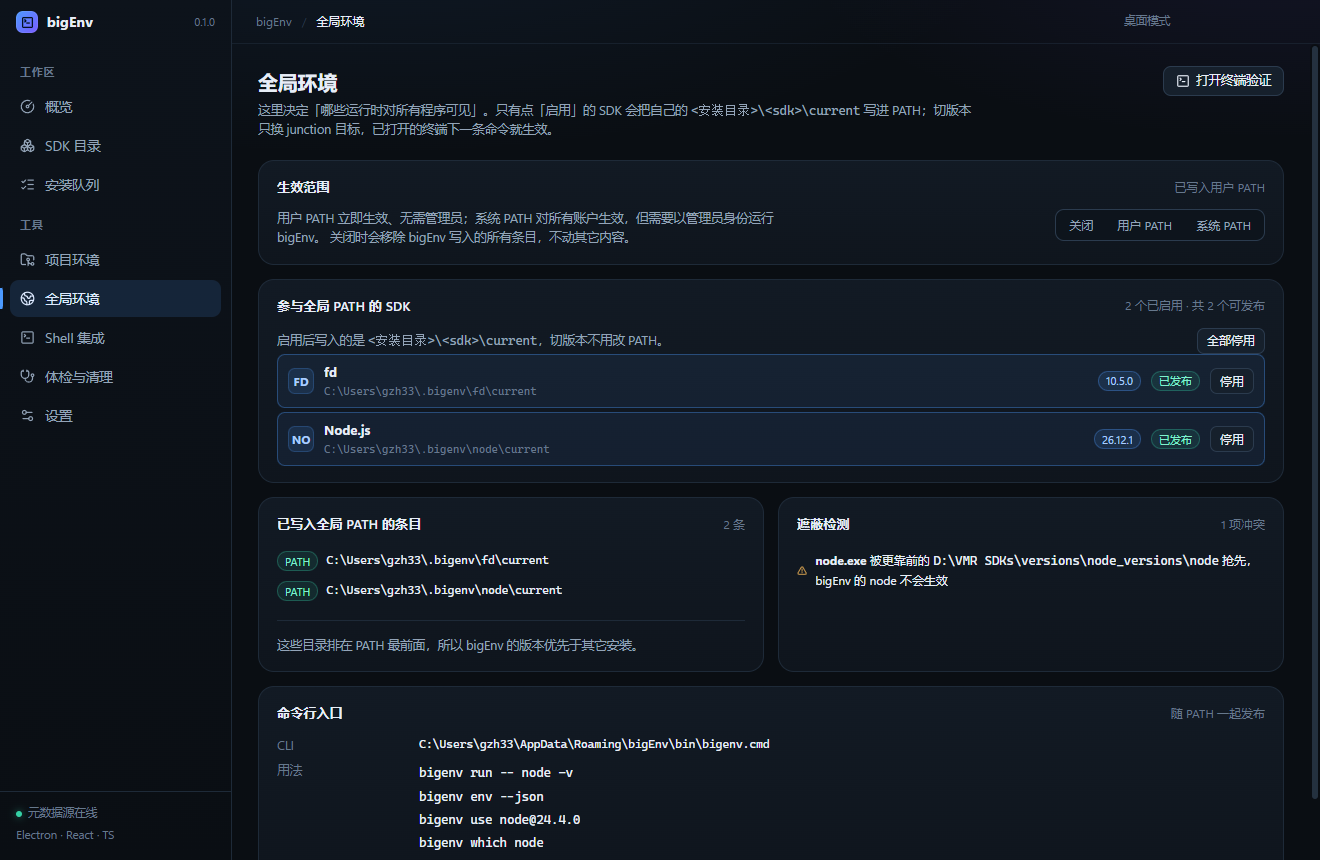
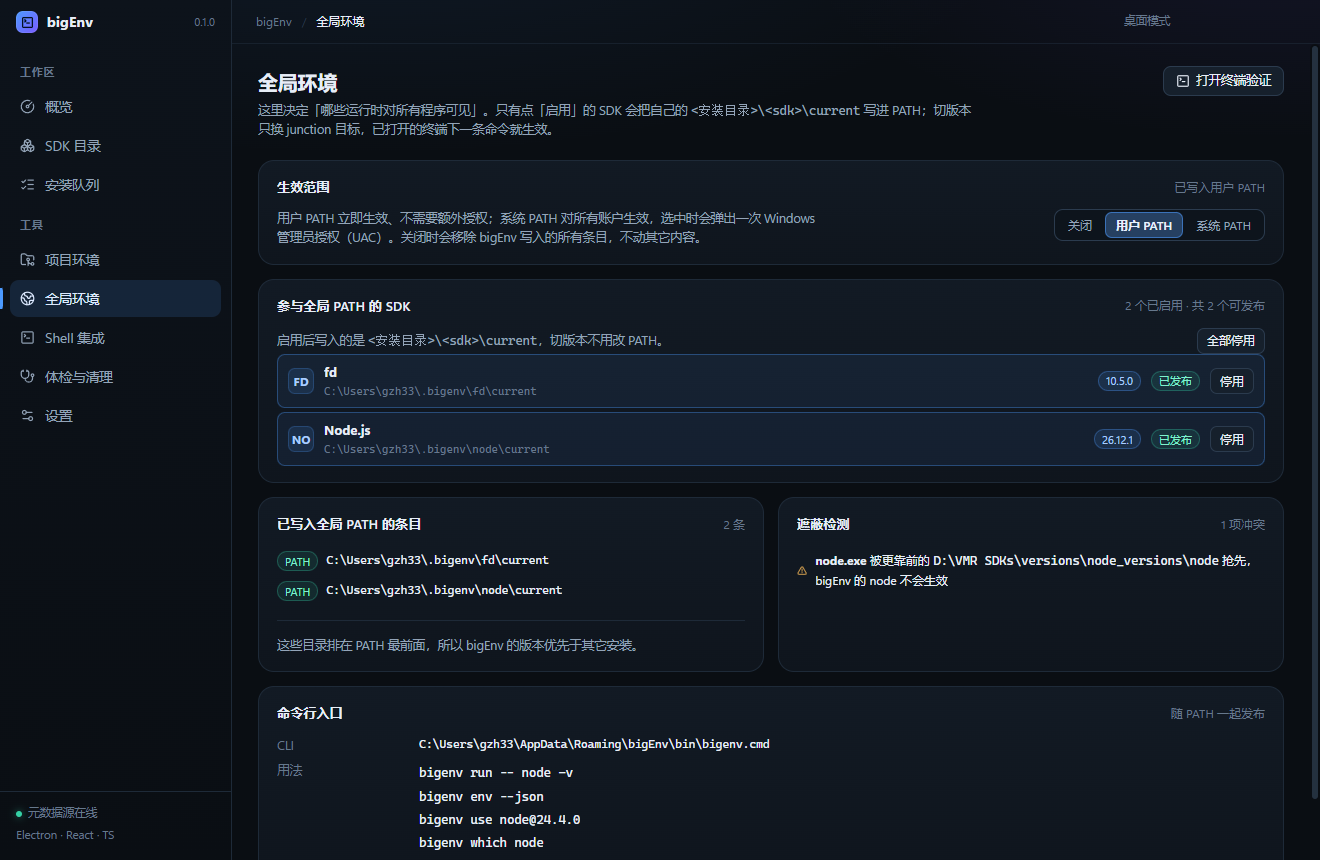
feat: 生效范围显示选中态，点系统 PATH 时自动申请管理员权限
全局环境页的 scope 按钮用 .on 类显示当前模式（此前样式只认 .on、组件写的是 .active，故选中态从未生效）。选中系统 PATH 时由主进程用 Start-Process -Verb RunAs 拉起自己的升权副本（--bigenv-elevated-path=apply|strip），副本不开窗口、不注册 IPC，只写 HKLM 或用退出码 4 拒绝陈旧写；离开 machine 模式同样走 strip。写入顺序改为先写目标 scope 再清旧 scope，意图先落盘、失败回滚，避免机器写失败后两边条目都没了。

Changed region(s): [[0.2174, 0.2419, 0.6212, 0.3023], [0.8076, 0.2419, 0.9008, 0.3023]]

diff --git a/src/main/envManager.ts b/src/main/envManager.ts
@@ -12,6 +12,7 @@ import {
   prependEntries,
   stripManaged,
 } from './globalPath';
+import type { PathScope } from './globalPath';
 import { createLogger } from './logger';
 import { appPaths } from './paths';
 import type { Registry } from './registry';
@@ -186,28 +187,40 @@ export class EnvManager {
     return uniquePaths(groups.flatMap((group) => group.dirs));
   }
 
-  async setPathMode(mode: PathMode): Promise<void> {
+  /** Removes every bigEnv-owned entry from one registry scope. */
+  async stripPathScope(scope: PathScope, options: { throwOnError?: boolean } = {}): Promise<void> {
     const matcher = makeManagedMatcher(this.getSettings().installRoot, appPaths().binDir);
+    const result = await stripManaged(scope, matcher);
+    if (!result.error) return;
+    if (options.throwOnError) throw new Error(result.error);
+    log.warn('path cleanup skipped', { scope, error: result.error });
+  }
+
+  /** Writes the current selection (launcher + enabled SDKs) into one registry scope. */
+  async writePathScope(scope: PathScope): Promise<void> {
+    const matcher = makeManagedMatcher(this.getSettings().installRoot, appPaths().binDir);
+    const entries = await this.globalEntries();
+    const launcher = await this.ensureCliLauncher();
+    const withCli = uniquePaths([path.dirname(launcher), ...entries]);
+    const result = await prependEntries(scope, withCli, matcher);
+    if (result.error) throw new Error(result.error);
+  }
+
+  async setPathMode(mode: PathMode): Promise<void> {
     if (mode === 'off') {
       for (const scope of ['user', 'machine'] as const) {
-        const result = await stripManaged(scope, matcher);
-        if (result.error) log.warn('path cleanup skipped', { scope, error: result.error });
+        await this.stripPathScope(scope);
       }
       log.info('global path disabled');
       return;
     }
-    const entries = await this.globalEntries();
-    const launcher = await this.ensureCliLauncher();
-    const withCli = uniquePaths([path.dirname(launcher), ...entries]);
+    // Publish into the target scope before cleaning the other one: if this write needs
+    // elevation and fails, the previous scope must stay intact (no half-migrated PATH).
+    await this.writePathScope(mode);
     for (const scope of ['machine', 'user'] as const) {
-      if (scope !== mode) {
-        const cleaned = await stripManaged(scope, matcher);
-        if (cleaned.error) log.warn('path cleanup skipped', { scope, error: cleaned.error });
-      }
+      if (scope !== mode) await this.stripPathScope(scope);
     }
-    const result = await prependEntries(mode, withCli, matcher);
-    if (result.error) throw new Error(result.error);
-    log.info('global path enabled', { mode, entries: withCli.length });
+    log.info('global path enabled', { mode });
   }
 
   async pathInfo(): Promise<{ mode: PathMode; entries: string[]; activeScope: 'user' | 'machine' | null; conflicts: PathConflict[] }> {

diff --git a/src/main/app.ts b/src/main/app.ts
@@ -1,5 +1,8 @@
 import type { ProjectInfo, Settings } from '../shared/types';
+import { app } from 'electron';
+import { spawn } from 'node:child_process';
 import { CatalogService, detectCapabilities, type Capabilities } from './catalog';
+import { ELEVATION_FLAG } from './elevated';
 import { EnvManager } from './envManager';
 import { HealthService } from './health';
 import { createHttpClient, type HttpClient } from './http';
@@ -141,6 +144,47 @@ export class AppRuntime {
     }
     await this.env.refresh();
     return next;
+  }
+
+  /**
+   * Machine-scope PATH lives in HKLM, so writing it needs an elevated process.
+   * The user already asked for it by clicking「系统 PATH」, so we raise the UAC prompt
+   * with the packaged executable running as a one-shot helper, wait for it, then
+   * drop the bigEnv entries from the user scope in this (non-elevated) process.
+   */
+  async applyMachinePathElevated(action: 'apply' | 'strip'): Promise<void> {
+    const exe = process.execPath;
+    const flag = `${ELEVATION_FLAG}=${action}`;
+    const args = app.isPackaged ? [flag] : [app.getAppPath(), flag];
+    const quotedExe = exe.replace(/'/g, "''");
+    const quotedArgs = args.map((arg) => `'${arg.replace(/'/g, "''")}'`).join(', ');
+    const script = `$p = Start-Process -FilePath '${quotedExe}' -ArgumentList ${quotedArgs} -Verb RunAs -Wait -PassThru; exit $p.ExitCode`;
+    const code = await new Promise<number>((resolve, reject) => {
+      const child = spawn('powershell.exe', ['-NoProfile', '-NonInteractive', '-Command', script], {
+        windowsHide: true,
+        stdio: ['ignore', 'ignore', 'pipe'],
+      });
+      let stderr = '';
+      child.stderr?.on('data', (chunk: Buffer) => {
+        stderr += chunk.toString();
+      });
+      const timer = setTimeout(() => child.kill(), 180_000);
+      child.on('error', (error) => {
+        clearTimeout(timer);
+        reject(error);
+      });
+      child.on('close', (exitCode) => {
+        clearTimeout(timer);
+        if (exitCode === 0) resolve(0);
+        else if (/canceled by the user|用户取消|操作被用户取消/i.test(stderr)) resolve(1223);
+        else resolve(exitCode ?? 1);
+      });
+    });
+    if (code === 1223) throw new Error('已取消管理员授权');
+    if (code !== 0) throw new Error('以管理员身份写入系统 PATH 失败');
+    // `apply` wrote HKLM; `strip` removed the old entries there. Either way the
+    // user-scope entries are this process's responsibility.
+    await this.env.stripPathScope('user');
   }
 
   async dispose(): Promise<void> {

diff --git a/src/main/elevated.ts b/src/main/elevated.ts
@@ -1,0 +1,60 @@
+import { EnvManager } from './envManager';
+import { appPaths } from './paths';
+import { createLogger, initLogger } from './logger';
+import { Registry } from './registry';
+import { getSettings, loadSettings } from './store';
+
+/**
+ * Argument that turns the executable into a one-shot elevated helper:
+ * the UAC prompt is raised by the main process, and this process only touches the
+ * machine-scope PATH and exits with a status code. No window, no IPC.
+ */
+export const ELEVATION_FLAG = '--bigenv-elevated-path';
+
+export type ElevatedAction = 'apply' | 'strip';
+
+export const EXIT_ELEVATION_OK = 0;
+export const EXIT_ELEVATION_FAILED = 1;
+export const EXIT_ELEVATION_STALE = 4;
+
+/** Reads `<flag>=<action>` from argv; returns null when the flag is absent or malformed. */
+export function elevatedAction(argv: readonly string[]): ElevatedAction | null {
+  for (const arg of argv) {
+    if (!arg.startsWith(`${ELEVATION_FLAG}=`)) continue;
+    const value = arg.slice(ELEVATION_FLAG.length + 1);
+    if (value === 'apply' || value === 'strip') return value;
+  }
+  return null;
+}
+
+/**
+ * Runs in the elevated copy of bigEnv started by `AppRuntime.applyMachinePathElevated`.
+ * `apply` writes the current selection into HKLM; `strip` removes bigEnv's entries there
+ * (needed when leaving machine mode, because HKLM cannot be edited without elevation).
+ */
+export async function runElevatedPathWrite(action: ElevatedAction): Promise<number> {
+  initLogger(appPaths().logDir);
+  const log = createLogger('elevated');
+  try {
+    await loadSettings();
+    const settings = getSettings();
+    if (action === 'apply' && settings.pathMode !== 'machine') {
+      log.warn('elevated write skipped, mode changed meanwhile', { pathMode: settings.pathMode });
+      return EXIT_ELEVATION_STALE;
+    }
+    const registry = new Registry(() => getSettings().installRoot);
+    await registry.scan();
+    const env = new EnvManager(registry, getSettings);
+    if (action === 'apply') {
+      await env.writePathScope('machine');
+      log.info('elevated machine path written', { sdks: settings.pathSdks.length });
+    } else {
+      await env.stripPathScope('machine', { throwOnError: true });
+      log.info('elevated machine path stripped');
+    }
+    return EXIT_ELEVATION_OK;
+  } catch (error) {
+    log.error('elevated path operation failed', error);
+    return EXIT_ELEVATION_FAILED;
+  }
+}

diff --git a/src/main/ipc.ts b/src/main/ipc.ts
@@ -3,7 +3,7 @@ import type { Settings } from '../shared/types';
 import type { AppRuntime } from './app';
 import { createLogger } from './logger';
 import { appPaths } from './paths';
-import { getSettings } from './store';
+import { getSettings, updateSettings } from './store';
 
 const log = createLogger('ipc');
 
@@ -95,10 +95,34 @@ export function registerIpc(runtime: AppRuntime): void {
   });
   ipcMain.handle('bigenv:env:setPathMode', async (_event, mode: unknown) => {
     if (mode !== 'off' && mode !== 'user' && mode !== 'machine') throw new Error('非法的 PATH 模式');
-    // Publish first: a failed write (no admin rights) must not leave the setting out of sync.
-    await runtime.env.setPathMode(mode);
-    const settings = await runtime.applySettings({ pathMode: mode });
-    broadcast('bigenv:settings', settings);
+    const previous = getSettings().pathMode;
+    // Record the intent before writing: the elevated helper re-reads settings and refuses to
+    // act when the mode changed meanwhile, so this is what makes UAC approval meaningful.
+    broadcast('bigenv:settings', await updateSettings({ pathMode: mode }));
+    try {
+      // Leaving machine mode needs elevation too, because HKLM cannot be edited otherwise.
+      if (previous === 'machine' && mode !== 'machine') {
+        await runtime.applyMachinePathElevated('strip');
+      }
+      try {
+        await runtime.env.setPathMode(mode);
+      } catch (error) {
+        // HKLM needs real elevation; the click itself is the user's intent, so raise UAC now
+        // instead of bouncing a permission error back to the page.
+        const message = error instanceof Error ? error.message : String(error);
+        if (mode === 'machine' && /管理员权限/.test(message)) {
+          await runtime.applyMachinePathElevated('apply');
+        } else {
+          throw error;
+        }
+      }
+    } catch (error) {
+      // Nothing was published: restore both the stored mode and the previous scope.
+      broadcast('bigenv:settings', await updateSettings({ pathMode: previous }));
+      await runtime.env.setPathMode(previous).catch(() => undefined);
+      throw error;
+    }
+    broadcast('bigenv:settings', await runtime.applySettings({ pathMode: mode }));
     return await runtime.env.info();
   });
 

diff --git a/src/renderer/pages/GlobalEnv.tsx b/src/renderer/pages/GlobalEnv.tsx
@@ -105,15 +105,16 @@ export function GlobalEnv(): JSX.Element {
         </div>
         <div className="spread" style={{ alignItems: 'flex-start' }}>
           <div style={{ fontSize: 12.5, color: 'var(--muted)', maxWidth: 540 }}>
-            用户 PATH 立即生效、无需管理员；系统 PATH 对所有账户生效，但需要以管理员身份运行 bigEnv。
-            关闭时会移除 bigEnv 写入的所有条目，不动其它内容。
+            用户 PATH 立即生效、不需要额外授权；系统 PATH 对所有账户生效，选中时会弹出一次 Windows
+            管理员授权（UAC）。关闭时会移除 bigEnv 写入的所有条目，不动其它内容。
           </div>
-          <div className="tabbar">
+          <div className="tabbar" role="group" aria-label="PATH 生效范围">
             {PATH_MODES.map((modeItem) => (
               <button
                 key={modeItem.id}
                 type="button"
-                className={shell?.pathMode === modeItem.id ? 'active' : ''}
+                className={shell?.pathMode === modeItem.id ? 'on' : ''}
+                aria-pressed={shell?.pathMode === modeItem.id}
                 disabled={writing}
                 onClick={() => applyMode(modeItem.id)}
               >
@@ -130,6 +131,7 @@ export function GlobalEnv(): JSX.Element {
               <Loader2 size={13} className="spin" />
               <span>
                 正在{mode === 'off' || pathModePending === 'off' ? '移除' : '写入'}注册表 PATH，请稍候…
+                {pathModePending === 'machine' && '（会弹出 Windows 管理员授权，请点「是」）'}
               </span>
             </div>
           </>

diff --git a/src/main/index.ts b/src/main/index.ts
@@ -2,6 +2,7 @@ import { app, BrowserWindow, session, shell } from 'electron';
 import { existsSync } from 'node:fs';
 import path from 'node:path';
 import { AppRuntime } from './app';
+import { elevatedAction, runElevatedPathWrite } from './elevated';
 import { registerIpc } from './ipc';
 import { createLogger } from './logger';
 
@@ -12,7 +13,14 @@ let mainWindow: BrowserWindow | null = null;
 
 app.setName('bigEnv');
 
-if (!app.requestSingleInstanceLock()) {
+const elevated = elevatedAction(process.argv);
+if (elevated) {
+  // Elevated one-shot helper: no window, no IPC, no single-instance lock.
+  void app.whenReady().then(async () => {
+    const code = await runElevatedPathWrite(elevated);
+    app.exit(code);
+  });
+} else if (!app.requestSingleInstanceLock()) {
   app.quit();
 } else {
   app.on('second-instance', () => {

diff --git a/src/renderer/styles.css b/src/renderer/styles.css
@@ -933,8 +933,14 @@ code,
 }
 
 .tabbar button.on {
-  background: var(--panel-3);
-  color: var(--text);
+  background: color-mix(in srgb, var(--accent) 22%, var(--panel-3));
+  color: #e8f2ff;
+  box-shadow: inset 0 0 0 1px color-mix(in srgb, var(--accent) 55%, transparent);
+  font-weight: 600;
+}
+
+.tabbar button:disabled {
+  cursor: progress;
 }
 
 .loading {

diff --git a/.agents/notes/implemented/feature/2026-10-29-global-path-and-cli.md b/.agents/notes/implemented/feature/2026-10-29-global-path-and-cli.md
@@ -41,6 +41,15 @@ Status: implemented
 - 错误本地化：IPC 抛出的错误带 `Error invoking remote method 'bigenv:env:setPathMode': Error: ` 前缀，`errorText()` 剥掉后在卡片里显示红字「PATH 写入失败：写入系统 PATH 需要管理员权限」并给「重试」按钮（闭包记录上一次动作），不再依赖一闪而过的 toast。
 - 顺带解决一个真正的延迟源：`WM_SETTINGCHANGE` 的广播原来 `await` 一个 `powershell.exe -NoProfile` 冷启动，实测单次 2–5s，把「写入完成」硬生生拖到 6s。现在广播是 best-effort：`spawn(..., { detached: true, stdio: 'ignore' }).unref()` 后立即返回，注册表值已经写好，新开的 shell 自己会读。
 
+**A4. 选中态与点击即申请管理员权限（第六轮反馈后加入）**
+
+- 用户看截图说「tab 最好支持选中状态，这样我能看到当前是什么模式」。按钮上其实有 `className={pathMode === id ? 'active' : ''}`，但样式表只定义了 `.tabbar button.on`（目录页在用 `.on`），所以选中态从第一版起就没生效过——只改 class 名，再补 `aria-pressed` 与 `role="group"`。
+- 「系统 PATH 选的时候提示没有权限，这个能够点击的时候申请权限吗」：点击本身就是用户意图，不该先失败再让用户自己找管理员终端。现在 `bigenv:env:setPathMode` 遇到 `写入系统 PATH 需要管理员权限` 时，用 `Start-Process -Verb RunAs -Wait -PassThru` 拉起自己的升权副本。
+- 升权副本靠参数区分：`--bigenv-elevated-path=apply|strip`，在 `index.ts` 里**早于单实例锁**分支（否则会被正在运行的实例顶掉），不开窗口、不注册 IPC，写完 HKLM 就用退出码回报（0 成功 / 1 失败 / 4 模式已变）。退出码 4 是防陈旧写：升权副本重新读 settings，只有当 `pathMode === 'machine'` 才落笔。
+- 反过来，**离开** machine 模式也必须升权（HKLM 无法普通权限编辑）；`strip` 动作走同一个副本。
+- 顺序问题被实测抓出来两次：① 先写 settings 还是先写注册表——升权副本会校验 settings，所以意图必须先落盘，失败再回滚；② 先清另一个 scope 还是先写目标 scope——原来先 strip 用户 scope，机器写失败后两边都没了，现在先写目标、成功后再清旧 scope。
+- `.tabbar button.on` 现在用 accent 22% 混色 + 内描边 + 600 字重；系统 PATH 的 pending 文案追加「会弹出 Windows 管理员授权，请点「是」」。
+
 **B. `bigenv` CLI（`src/cli/index.ts` → `out/cli.cjs` → 打包进 `resources/cli.cjs`）**
 
 - 独立 Node 脚本，不 import electron，只读 `%APPDATA%\bigEnv\settings.json` 的 installRoot 与磁盘上的 `.bigenv.json`，所以能在任何进程里跑。
@@ -60,6 +69,9 @@ Status: implemented
 - **默认把所有 current 都写进 PATH**：实现最短，但全局命名空间被安装动作悄悄改写，用户无法只暴露 node 而隐藏另一个同名工具；也已与「装完就有、删了还在」的 stale 感知冲突。改为显式勾选。
 - **逐行复选框 + 点击后只转全局 busy**：第一版就是这样，被用户两次点名「看不到是否在执行」。复选框还让这一页看起来像批量表单。改为按钮 + 行级 pending + 保底展示时间。
 - **同步 `await` PowerShell 广播**：语义上更"完成"，但冷启动 PowerShell 要 2–5s，把一次几百毫秒的注册表写入拖成 6 秒。广播只是通知，注册表值已经是事实，改为 fire-and-forget。
+- **失败后让用户自己去「以管理员身份运行」**：能实现但把权限问题转嫁给用户；点击「系统 PATH」本身就是意图，改为当场弹 UAC。
+- **把 machine 写操作放进主进程里的隐藏窗口 / `runas` 库**：前者要维护第二个渲染进程，后者是原生 C++ 依赖。用「自己的 exe + 参数」当升权副本，零依赖且天然复用同一份 Node 代码。
+- **先清另一个 scope 再写目标 scope**：看起来"干净"，但目标写失败时两边条目都没了（实测把用户 PATH 清空过）。改为先写目标、成功再清旧 scope。
 - **全局 `cd` hook 自动切版本**：见 [Shell 注入与项目锁](2026-10-29-env-injection-and-project-lock.md)，已否。
 
 ## Consequences
@@ -67,6 +79,8 @@ Status: implemented
 - 收益：`node`/`go` 这类运行时对 IDE、AI agent、`cmd.exe`、计划任务都可见；切版本不再需要重开终端；冲突可见而非静默失效。
 - 收益（A2）：全局可见性变成逐 SDK 的显式选择，卸载某个版本不会留下悬空条目（`pathSdks` 里已不在本机安装的项在 UI 标为「已不在本机安装」并可一键移除）。
 - 收益（A3）：每次写 PATH 都有可见的进行中 / 成功 / 失败三态，失败可原地重试；「启用 / 停用」按钮比复选框更明确地表达「这次点击会写注册表」。
+- 收益（A4）：机器 PATH 不再要求用户预先用管理员身份重开应用——点一下、过一次 UAC 即可；选中态让「现在到底哪个 scope 生效」一眼可见。
+- 代价（A4）：升权副本靠退出码通信，UI 只能拿到 0/1/4 三种结果，拿不到更细的失败原因（HKLM 写入的具体错误只在日志里）；每次切换 scope 都会弹一次 UAC，这是 Windows 的约束而非实现选择。
 - 代价（A3）：广播不再 await，因此刚写完时若立刻在**已打开**的终端里查 PATH，可能还看不到新值；新开的终端不受影响。这是用旧终端即时感知换 UI 响应速度。
 - 代价与边界：
   - 全局 PATH 是**显式选择**，默认 `off`；`machine` 需要管理员，非管理员时报错而不是降级成用户 PATH。

diff --git a/.agents/notes/implemented/architecture/2026-10-29-electron-desktop-shell.md b/.agents/notes/implemented/architecture/2026-10-29-electron-desktop-shell.md
@@ -16,6 +16,7 @@ Status: implemented
 - **渲染进程与主进程的契约只有一处**：`src/shared/types.ts` 的 `Bridge` 接口。preload 用 `contextBridge` 暴露 `window.bigenv`，每个方法对应一个 `bigenv:*` `ipcMain.handle`；单向事件走四条通道（`bigenv:job` / `bigenv:installed` / `bigenv:catalog` / `bigenv:settings`）。
 - **构建**：主进程/preload 用 esbuild 打成 CJS（`out/main.cjs`、`out/preload.cjs`），渲染进程用 Vite（`out/renderer`）。两者都走 `npm run build`，`npm run dev` 同时起 vite 与 esbuild watch 再拉 Electron。
 - **窗口**：`titleBarStyle: 'hidden'` + `titleBarOverlay` 自绘标题栏；`contextIsolation: true`、`nodeIntegration: false`、`sandbox: false`（preload 需要 Node，但渲染进程仍无 Node）；生产模式由主进程注入 CSP，`index.html` 里不放 CSP meta（否则 dev 的 HMR 内联脚本被拦）。
+- **界面信息架构（第六轮反馈后）**：全局环境页的 scope 选择改成有选中态的 segmented control（`.tabbar button.on`，带 `aria-pressed`），「系统 PATH」由点击触发 UAC 而不是回显权限错误；升权写注册表走 `--bigenv-elevated-path=apply|strip` 的一次性副本（见 [全局 PATH 与 CLI](../feature/2026-10-29-global-path-and-cli.md) 的 A4）。
 - **界面信息架构（第三轮反馈后）**：新增「全局环境」页（`pages/GlobalEnv.tsx`，key `globals`）单独管理全局 PATH —— 选 `off`/`user`/`machine`，再逐 SDK 勾选哪些 `current` 目录进 PATH（`settings.pathSdks`）；「Shell 集成」只保留 PowerShell profile 注入与 env 脚本。SDK 抽屉拆成「已安装 / 可安装」两个 tab，安装动作入队后自动关闭抽屉（进度归队列面板），安装/卸载完成由主进程失效版本缓存并推事件，页面无需手动刷新。
 - **界面信息架构（第二轮反馈后）**：取消独立的「已安装」页，已安装版本并入「SDK 目录」——卡片直接列出已装版本 chips，并提供「已安装」筛选；「项目环境」页管理 `settings.projects` 里登记的多个目录，用勾选式表格决定每个目录激活哪些 SDK（保存为目录下的 `.bigenv.json`，格式见 [环境注入与项目锁](../feature/2026-10-29-env-injection-and-project-lock.md)）；安装队列的悬浮面板可关闭，队列页可一键清空已完成记录。
 

diff --git a/README.md b/README.md
@@ -45,7 +45,7 @@
 | PowerShell 注入 | 新开的 PowerShell | Shell 集成页打开开关，写入 profile 标记块 |
 | 全局 PATH | 整台机器的所有新进程 | 全局环境页选「用户 PATH」或「系统 PATH」，再逐 SDK 点「启用」 |
 
-全局 PATH 写入的是稳定目录 `<安装根>\<sdk>\current`（junction），不是带版本号的实体目录——所以切版本不需要改 PATH，也不需要重开已存在的终端（该终端里的下一条命令就会用新版本）。只有被启用的 SDK 才会进 PATH；清单为空时只发布 `bigenv` 启动器目录。系统 PATH 需要管理员权限：非管理员时写入会失败，页面原地给出原因和「重试」，设置保持原样。若更靠前的 PATH 里已有同名程序（例如别的版本管理器写进系统 PATH 的 node），页面会用红字点名冲突，bigEnv 不会去改别人的条目。
+全局 PATH 写入的是稳定目录 `<安装根>\<sdk>\current`（junction），不是带版本号的实体目录——所以切版本不需要改 PATH，也不需要重开已存在的终端（该终端里的下一条命令就会用新版本）。只有被启用的 SDK 才会进 PATH；清单为空时只发布 `bigenv` 启动器目录。选「系统 PATH」时点一下就弹出 Windows 管理员授权（UAC），批准后直接写 HKLM，不需要先以管理员身份重启应用；取消或失败时页面原地给出原因和「重试」，设置与已写入的 scope 都保持原样（切回「用户 PATH」也会弹一次 UAC，用来清掉系统 PATH 里的条目）。若更靠前的 PATH 里已有同名程序（例如别的版本管理器写进系统 PATH 的 node），页面会用红字点名冲突，bigEnv 不会去改别人的条目。
 
 **CLI**（`%APPDATA%\bigEnv\bin\bigenv.cmd`，选全局 PATH 时自动进入 PATH）：
 
